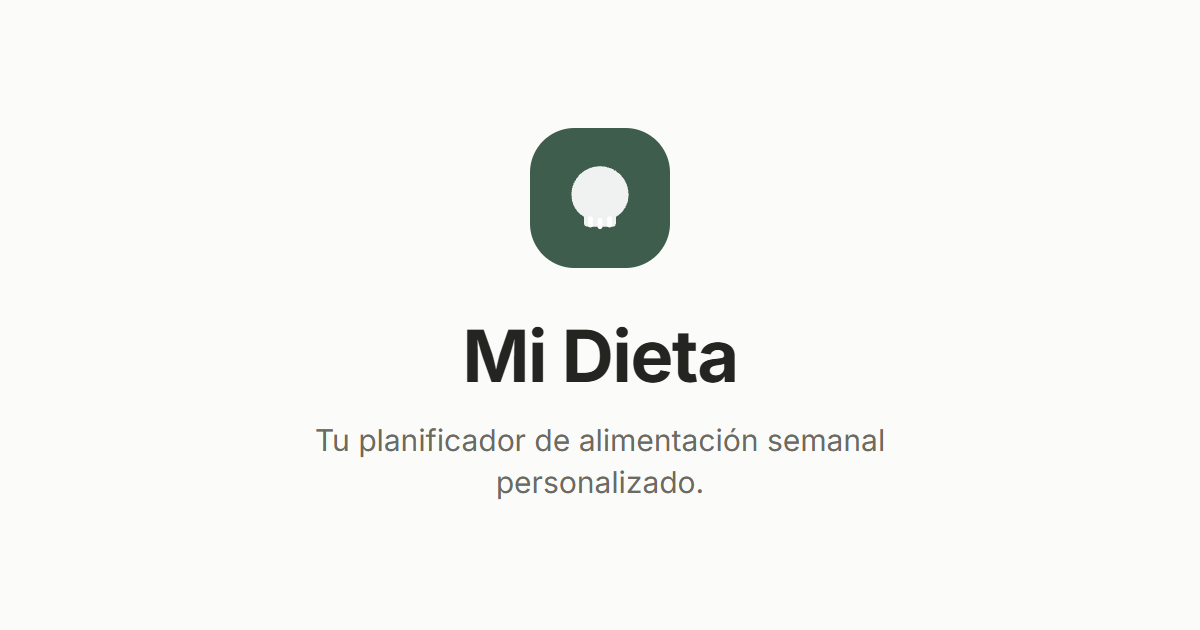
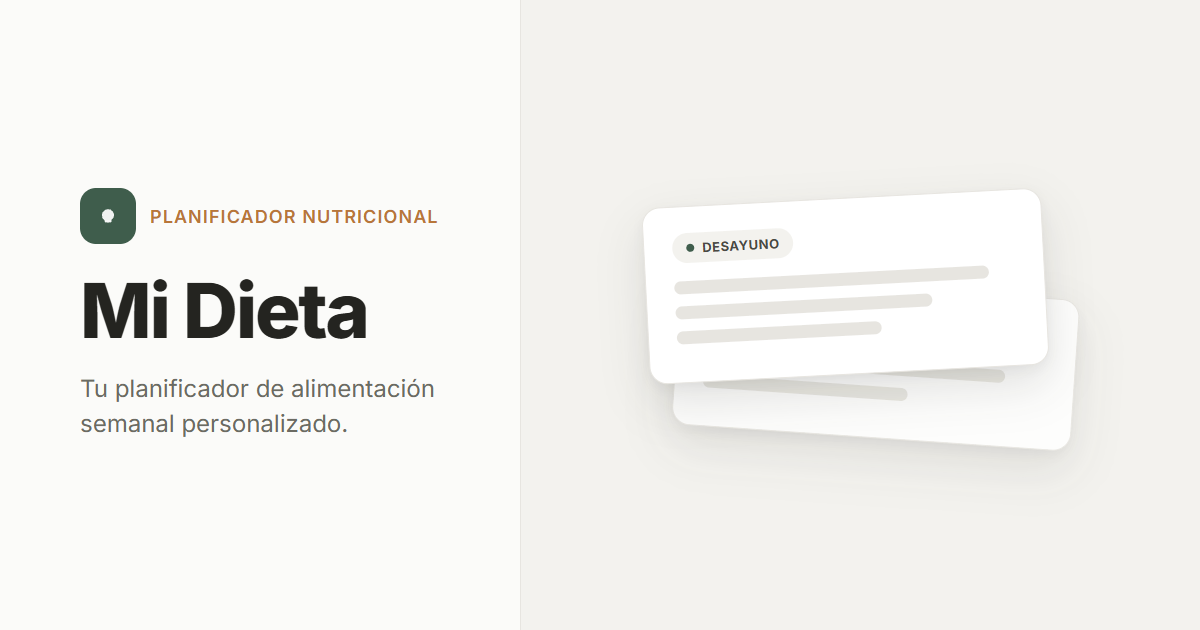
Redesign OG image and fix mobile plan-header spacing
The OG preview looked like a shell icon at WhatsApp thumbnail size, so
og-image.png now leads with the "Mi Dieta" wordmark and a stylized
product mockup instead of relying on the small logo alone.

Also fix a mobile-only layout bug: .plan-header-main's flex-basis of
200px is meant as a row-layout width hint, but once .plan-header
switches to flex-direction: column under 600px it became a height
basis, forcing ~200px of empty space above the header buttons.

diff --git a/style.css b/style.css
@@ -700,6 +700,11 @@ code {
     flex-direction: column;
     gap: 14px;
   }
+  .plan-header-main {
+    /* flex-basis 200px is a row-layout width hint; in column direction it
+       becomes a height basis and forces ~200px of empty vertical space. */
+    flex: 1 1 auto;
+  }
   .plan-header-actions {
     width: 100%;
   }